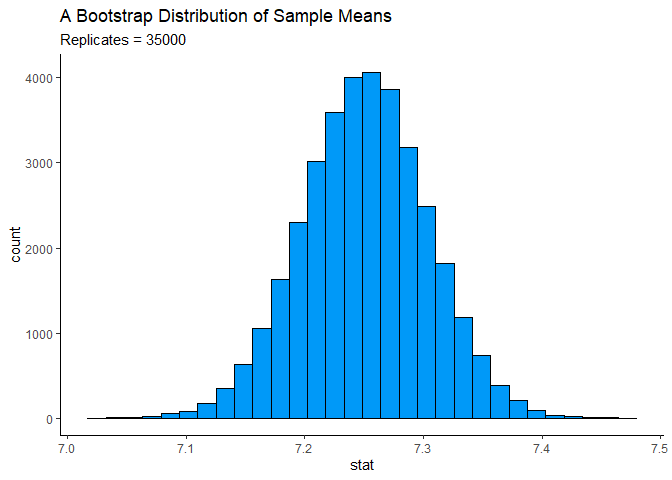
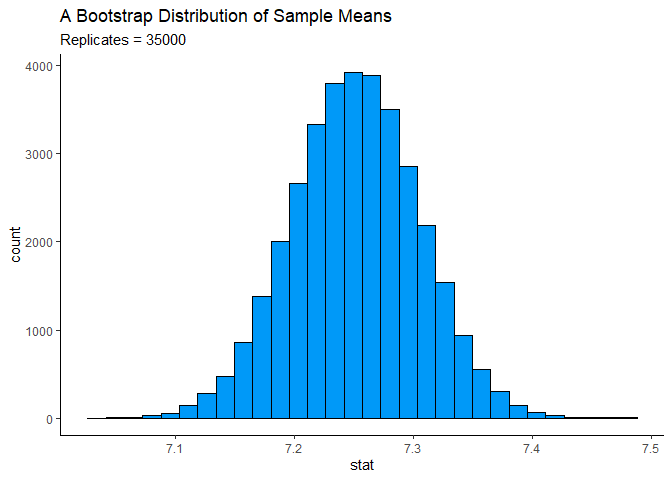
last

diff --git a/lab-11.md b/lab-11.md
@@ -89,7 +89,6 @@ library(boot)
 
 ``` r
 data(ncbirths)
-?ncbirths
 ```
 
 ### Exercise 1
@@ -131,23 +130,23 @@ boot_df
     ## # A tibble: 35,000 × 2
     ##    replicate  stat
     ##        <int> <dbl>
-    ##  1         1  7.31
-    ##  2         2  7.22
-    ##  3         3  7.27
-    ##  4         4  7.35
+    ##  1         1  7.28
+    ##  2         2  7.27
+    ##  3         3  7.22
+    ##  4         4  7.21
     ##  5         5  7.26
-    ##  6         6  7.27
-    ##  7         7  7.30
-    ##  8         8  7.25
-    ##  9         9  7.24
-    ## 10        10  7.33
+    ##  6         6  7.16
+    ##  7         7  7.27
+    ##  8         8  7.26
+    ##  9         9  7.20
+    ## 10        10  7.22
     ## # ℹ 34,990 more rows
 
 ``` r
 mean(boot_df$stat)
 ```
 
-    ## [1] 7.250477
+    ## [1] 7.25127
 
 ``` r
 ggplot(data = boot_df, mapping = aes(x = stat)) +
@@ -164,7 +163,7 @@ boot_n <- boot_df %>%
 mean(boot_n$null)
 ```
 
-    ## [1] 7.429883
+    ## [1] 7.430676
 
 ### Exercise 4
 
@@ -183,13 +182,13 @@ t.test(boot_n$stat, boot_n$null)
     ##  Welch Two Sample t-test
     ## 
     ## data:  boot_n$stat and boot_n$null
-    ## t = -448.46, df = 69998, p-value < 2.2e-16
+    ## t = -444.71, df = 69998, p-value < 2.2e-16
     ## alternative hypothesis: true difference in means is not equal to 0
     ## 95 percent confidence interval:
-    ##  -0.1801901 -0.1786219
+    ##  -0.1801967 -0.1786153
     ## sample estimates:
     ## mean of x mean of y 
-    ##  7.250477  7.429883
+    ##  7.251270  7.430676
 
 There is a significant difference in baby weights between 1995 and
 after.
@@ -275,4 +274,31 @@ not low weight.
 
 ``` r
 #H0: the proportion of low birth weight babies for younger mothers is the same as for mature mothers. HA: the proportion of low birth weight babies is higher for mature mothers than for younger mothers.
+
+ncbirths %>%
+  filter(mature == "younger mom") %>%
+  group_by( lowbirthweight ) %>%
+  dplyr::summarise(percent = 100 * n() / nrow(ncbirths))
 ```
+
+    ## # A tibble: 2 × 2
+    ##   lowbirthweight percent
+    ##   <fct>            <dbl>
+    ## 1 low                9.3
+    ## 2 not low           77.4
+
+``` r
+ncbirths %>%
+  filter(mature == "mature mom") %>%
+  group_by( lowbirthweight ) %>%
+  dplyr::summarise( percent = 100 * n() / nrow( ncbirths ) )
+```
+
+    ## # A tibble: 2 × 2
+    ##   lowbirthweight percent
+    ##   <fct>            <dbl>
+    ## 1 low                1.8
+    ## 2 not low           11.5
+
+I feel like my code for the last assignment is not really correct :( but
+I did it to my best ability
